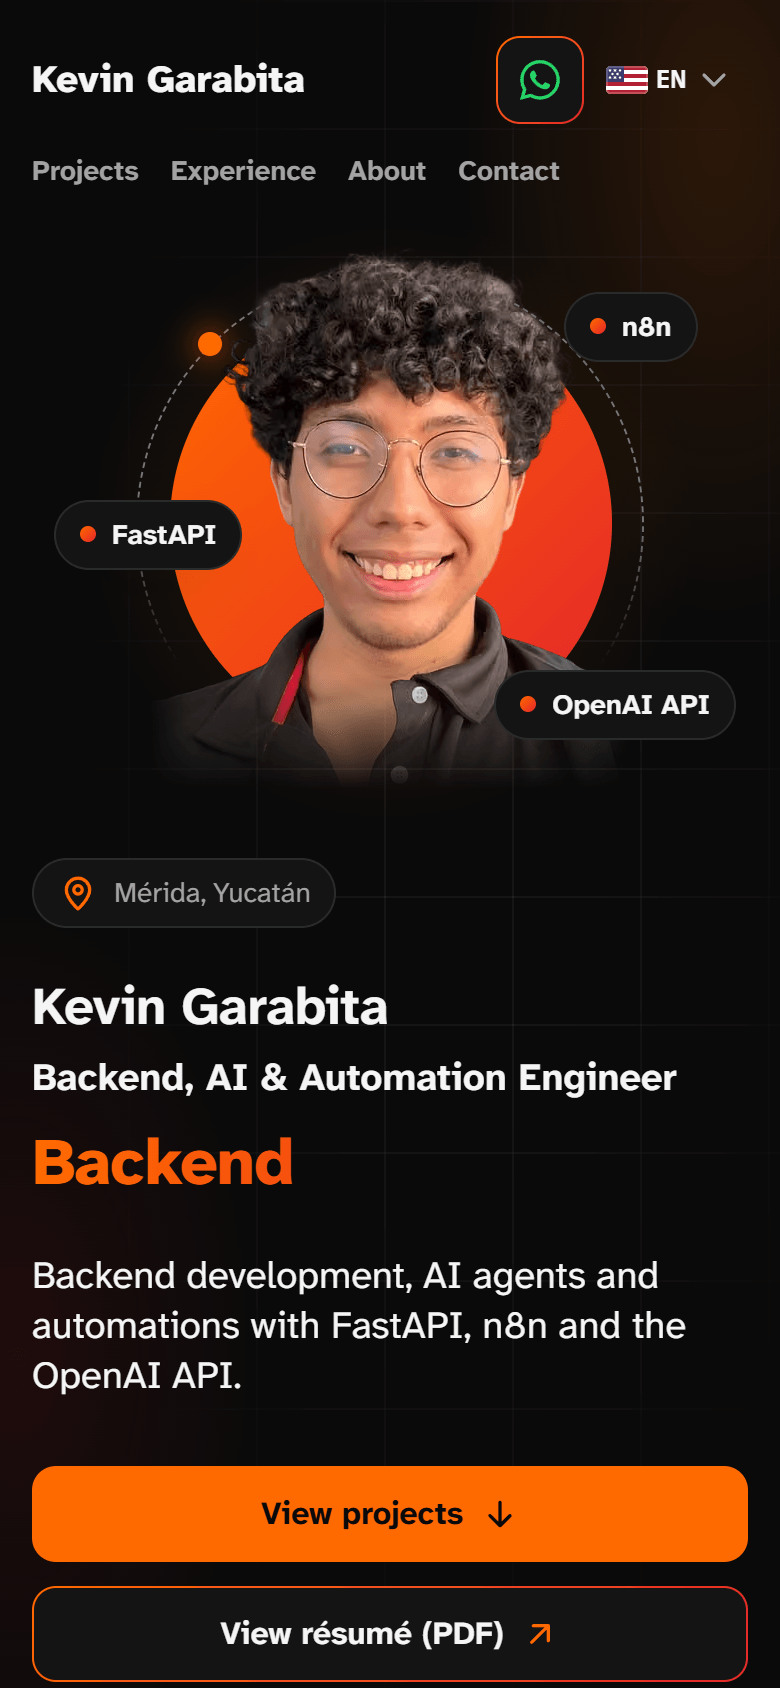
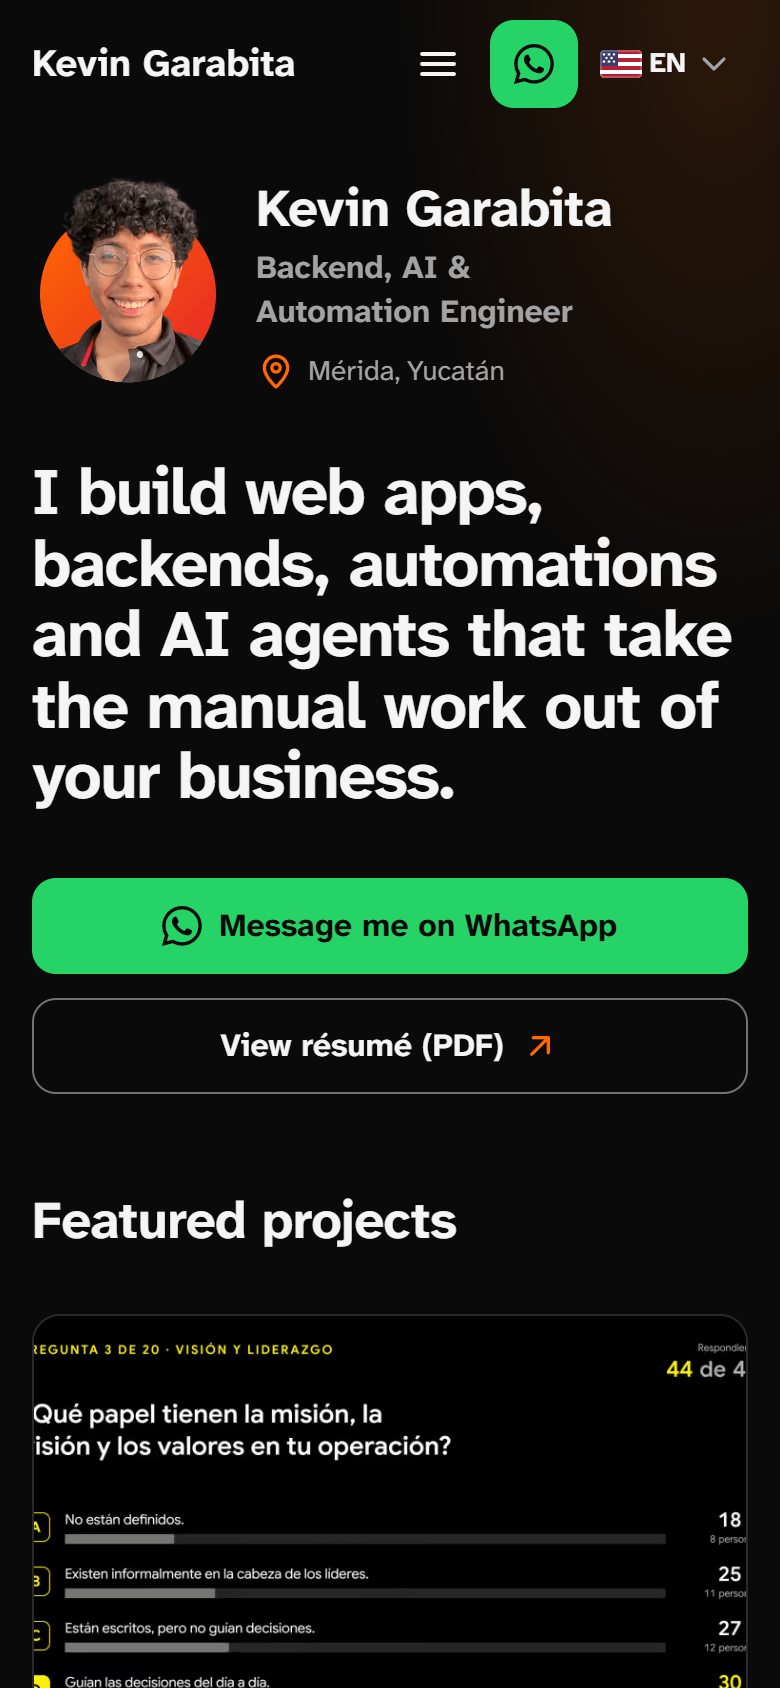
docs(screenshots): retake the English home in the new design
The README screenshots still showed the rotating title, the orbit of
tool chips around the photo and four hero buttons. They now show the
first screen of the redesigned home at the same sizes (1440×900, and
390×844 at 2x): the byline with the photo, the value line, the
WhatsApp and résumé buttons and the featured projects right after. The
alt texts describe exactly that.

diff --git a/README.md b/README.md
@@ -7,8 +7,8 @@ Source code of the personal site of **Kevin Garabita**, a Backend, AI & Automati
 **Live site: [www.garasoftware.com.mx](https://www.garasoftware.com.mx)**
 
 <p align="center">
-  <img src="docs/screenshots/home-desktop.png" width="600" alt="English home page on a desktop screen: the heading Kevin Garabita, Backend, AI &amp; Automation Engineer, the word Backend in large orange letters, a summary of his backend, AI agent and automation work, buttons to view his projects, view his résumé, message him on WhatsApp and email him, LinkedIn and GitHub links, and his photo in front of an orange-to-red circle labelled FastAPI, n8n and OpenAI API.">
-  <img src="docs/screenshots/home-phone.png" width="173" alt="The same English home page on a phone: the photo first, then the name and role, the word Backend, the summary and the buttons stacked in one column.">
+  <img src="docs/screenshots/home-desktop.png" width="600" alt="English home page on a desktop screen: a header with the name, the section links, a green WhatsApp button and the language menu; a byline with Kevin's photo on an orange-to-red disc, his name, the role Backend, AI &amp; Automation Engineer and Mérida, Yucatán; the value line “I build web apps, backends, automations and AI agents that take the manual work out of your business.” in large type; buttons to message him on WhatsApp and to view his résumé (PDF); and the Featured projects heading right after.">
+  <img src="docs/screenshots/home-phone.png" width="173" alt="The same English home page on a phone: the header with the menu button, the WhatsApp button and the language menu; the byline with photo, name, role and Mérida, Yucatán; the value line; the WhatsApp and résumé buttons stacked; and right after, Featured projects with the first one's screenshot.">
 </p>
 
 ## Highlights
